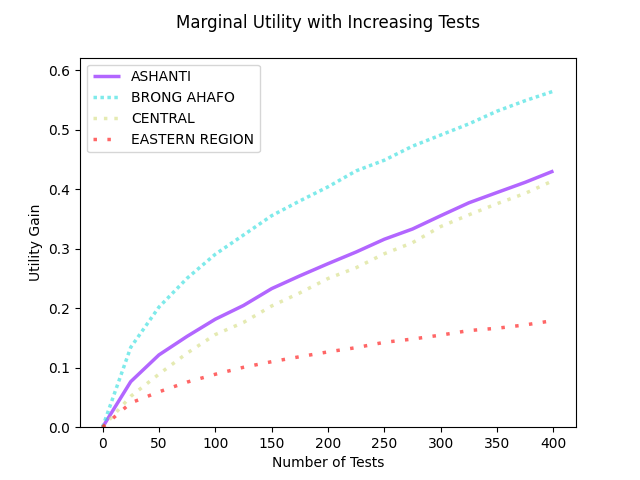
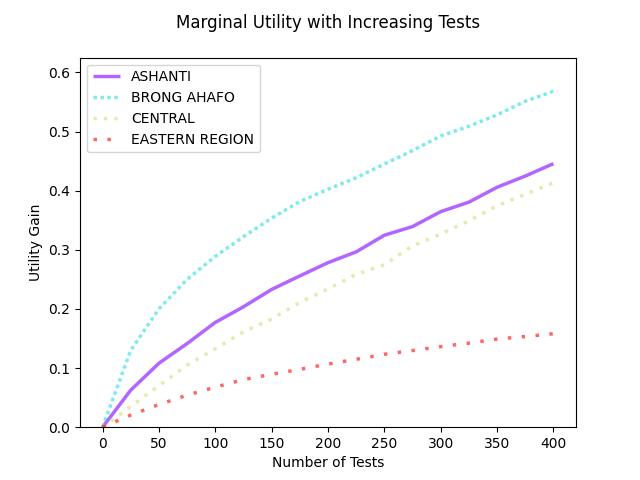
greedy forward added

diff --git a/bayesianexperimentation/bayesianexperimentaldesign.py b/bayesianexperimentation/bayesianexperimentaldesign.py
@@ -2040,7 +2040,7 @@ UmatTN = np.array([[0.16098932, 0.15988504, 0.15885114, 0.1578939 , 0.15698791,
 
     return sol, maxU
 
-def smoothAllocation(U):
+def smoothAllocationBackward(U):
     '''
     Provides a 'smooth' allocation across the marginal utilities in U. The values of U should correspond to TNs in the
     rows and incremental increases in the sampling budget in the columns.
@@ -2065,6 +2065,33 @@ def smoothAllocation(U):
         currSol[minTNind] -= 1 # Update our current solution
         retArr[:, k] = currSol
         objValArr[k] = objValArr[k+1] - Farr[minTNind]
+
+    return retArr, objValArr
+
+def smoothAllocationForward(U):
+    '''
+    Provides a 'smooth' allocation across the marginal utilities in U. The values of U should correspond to TNs in the
+    rows and incremental increases in the sampling budget in the columns.
+    The algorithm uses greedy decremental steps from a solver-found solution for the maximum budget to find solutions
+    for smaller budgets.
+    '''
+    (numTN, numTests) = U.shape
+    #sol, objVal = GetOptAllocation(U)
+    retArr = np.zeros((numTN, numTests-1)) # First column of U corresponds to no samples
+    objValArr = np.zeros(numTests-1) # For returning the objective vales
+    currSol = np.zeros(numTN)
+    for k in range(0,numTests-1,1):
+        # Choose the direction that produces the highest marginal utility increase
+        Farr = np.zeros(numTN)
+        for tn in range(numTN):
+            Farr[tn] = U[tn, int(currSol[tn])+1] - U[tn, int(currSol[tn])]
+        maxTNind = np.argmax(Farr)
+        currSol[maxTNind] += 1 # Update current solution
+        if k > 0:
+            objValArr[k] = objValArr[k-1] + Farr[maxTNind]
+        else:
+            objValArr[k] = Farr[maxTNind]
+        retArr[:, k] = currSol.copy()
 
     return retArr, objValArr
 
@@ -3200,12 +3227,13 @@ def allocationCaseStudy():
     # todo: ################################
     #todo: REMOVE
     # todo: ################################
-    for setsize in [6000,8000]:
+    for setsize in [10000,15000]:
         print('Set size: '+str(setsize))
         for reps in range(3):
+            print('Replication: '+str(reps))
             setDraws = CSdict1['postSamples'][choice(np.arange(numdraws), size=setsize, replace=False)]
-            utilDict.update({'dataDraws': setDraws})
             lossDict.update({'bayesDraws': setDraws})
+            utilDict.update({'dataDraws': setDraws[choice(np.arange(len(setDraws)), size=4000, replace=False)]})
 
             dictTemp.update({'postSamples': CSdict1['postSamples'][choice(np.arange(numdraws), size=numdrawstouse,
                                             replace=False)], 'numPostSamples': numdrawstouse})
